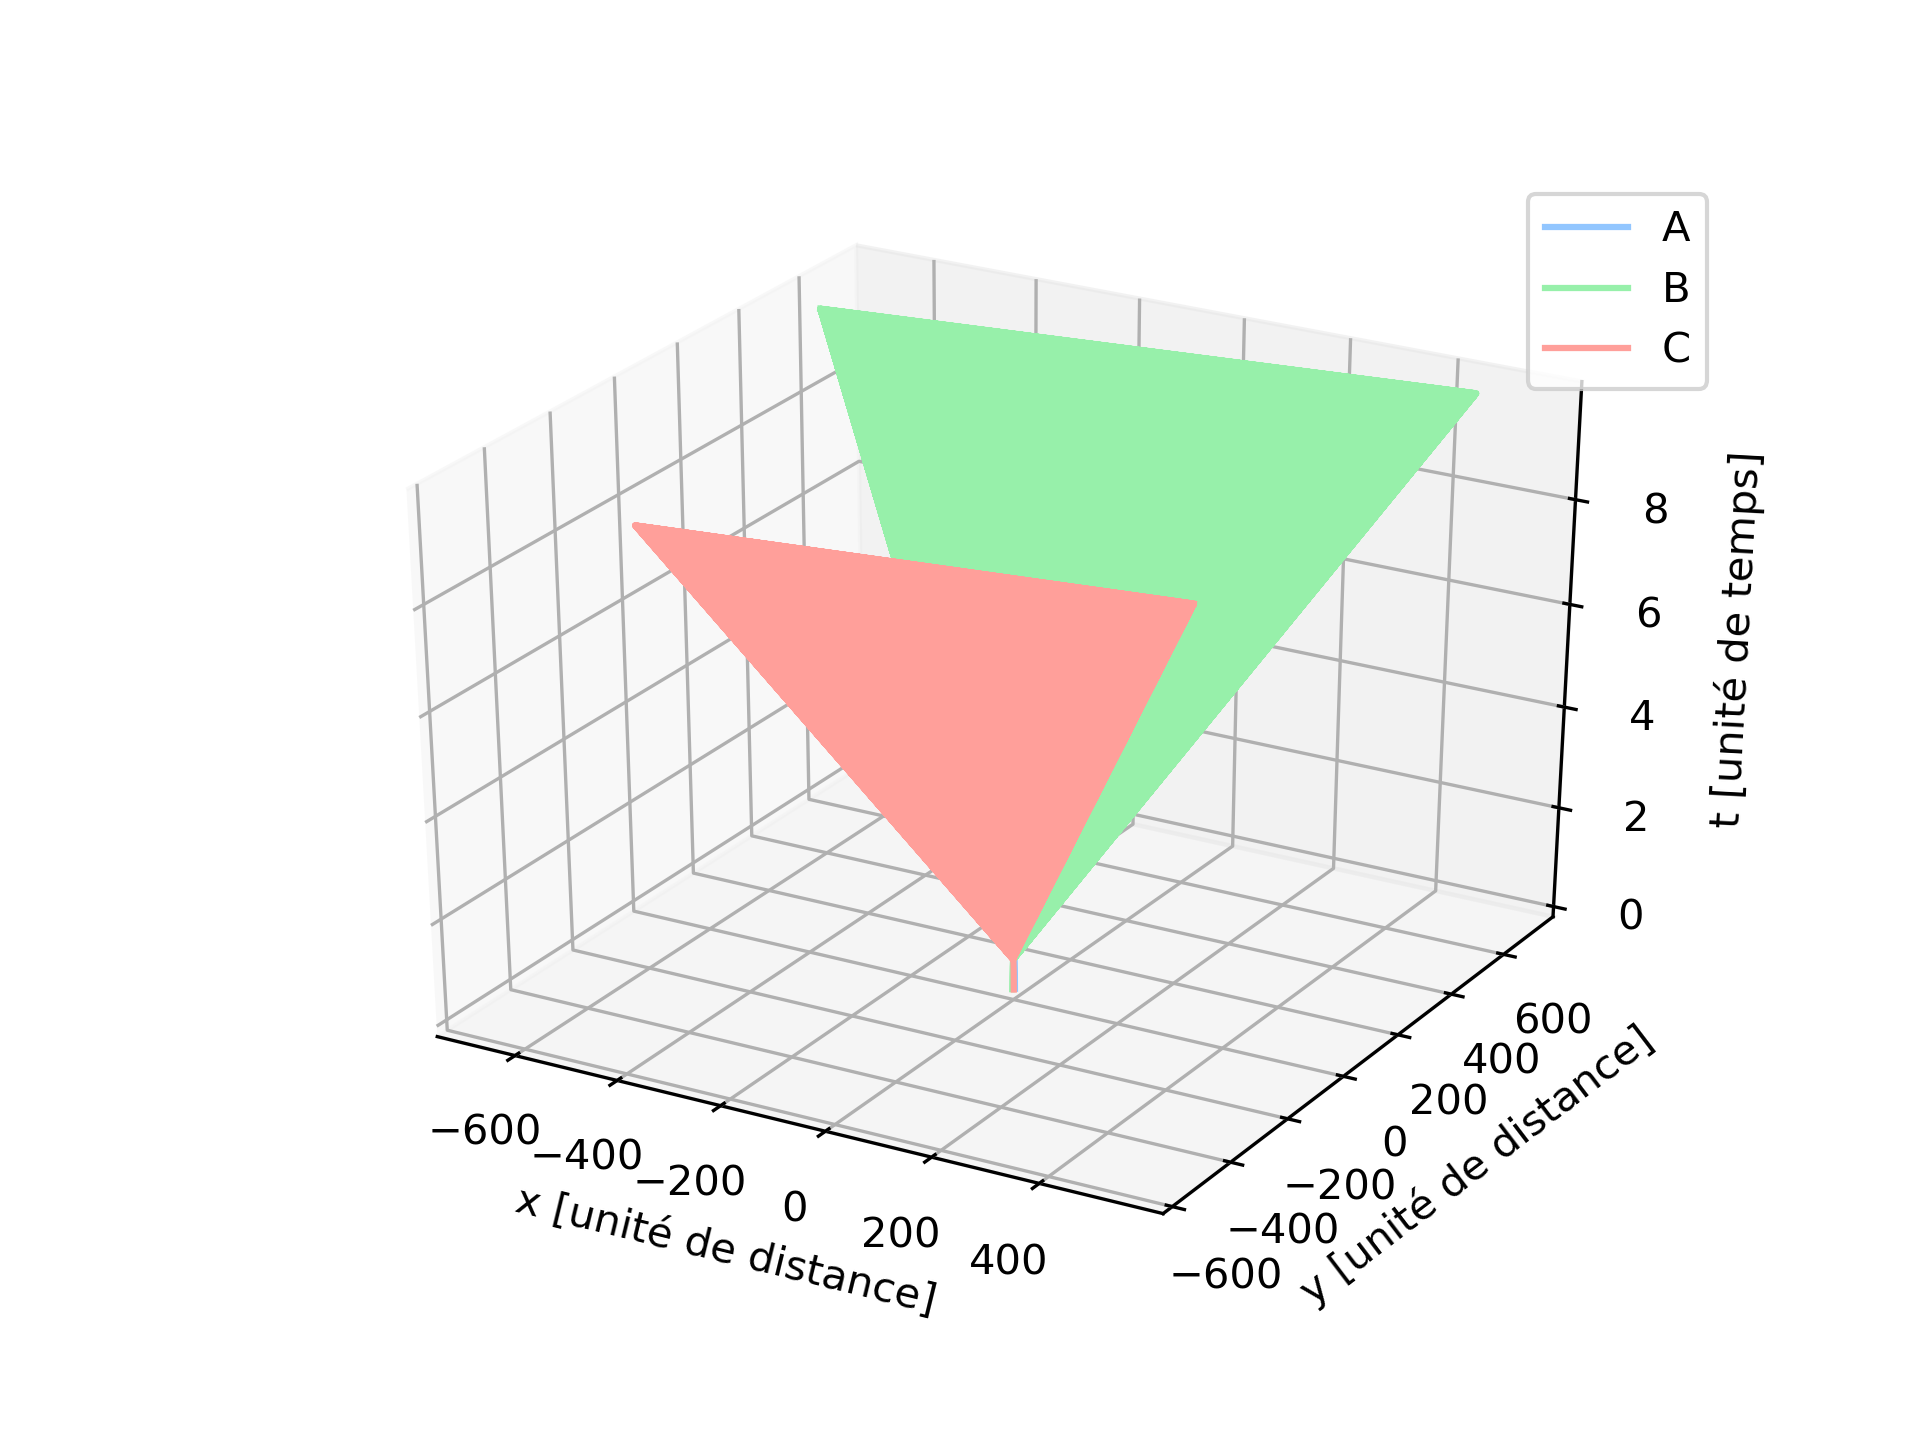
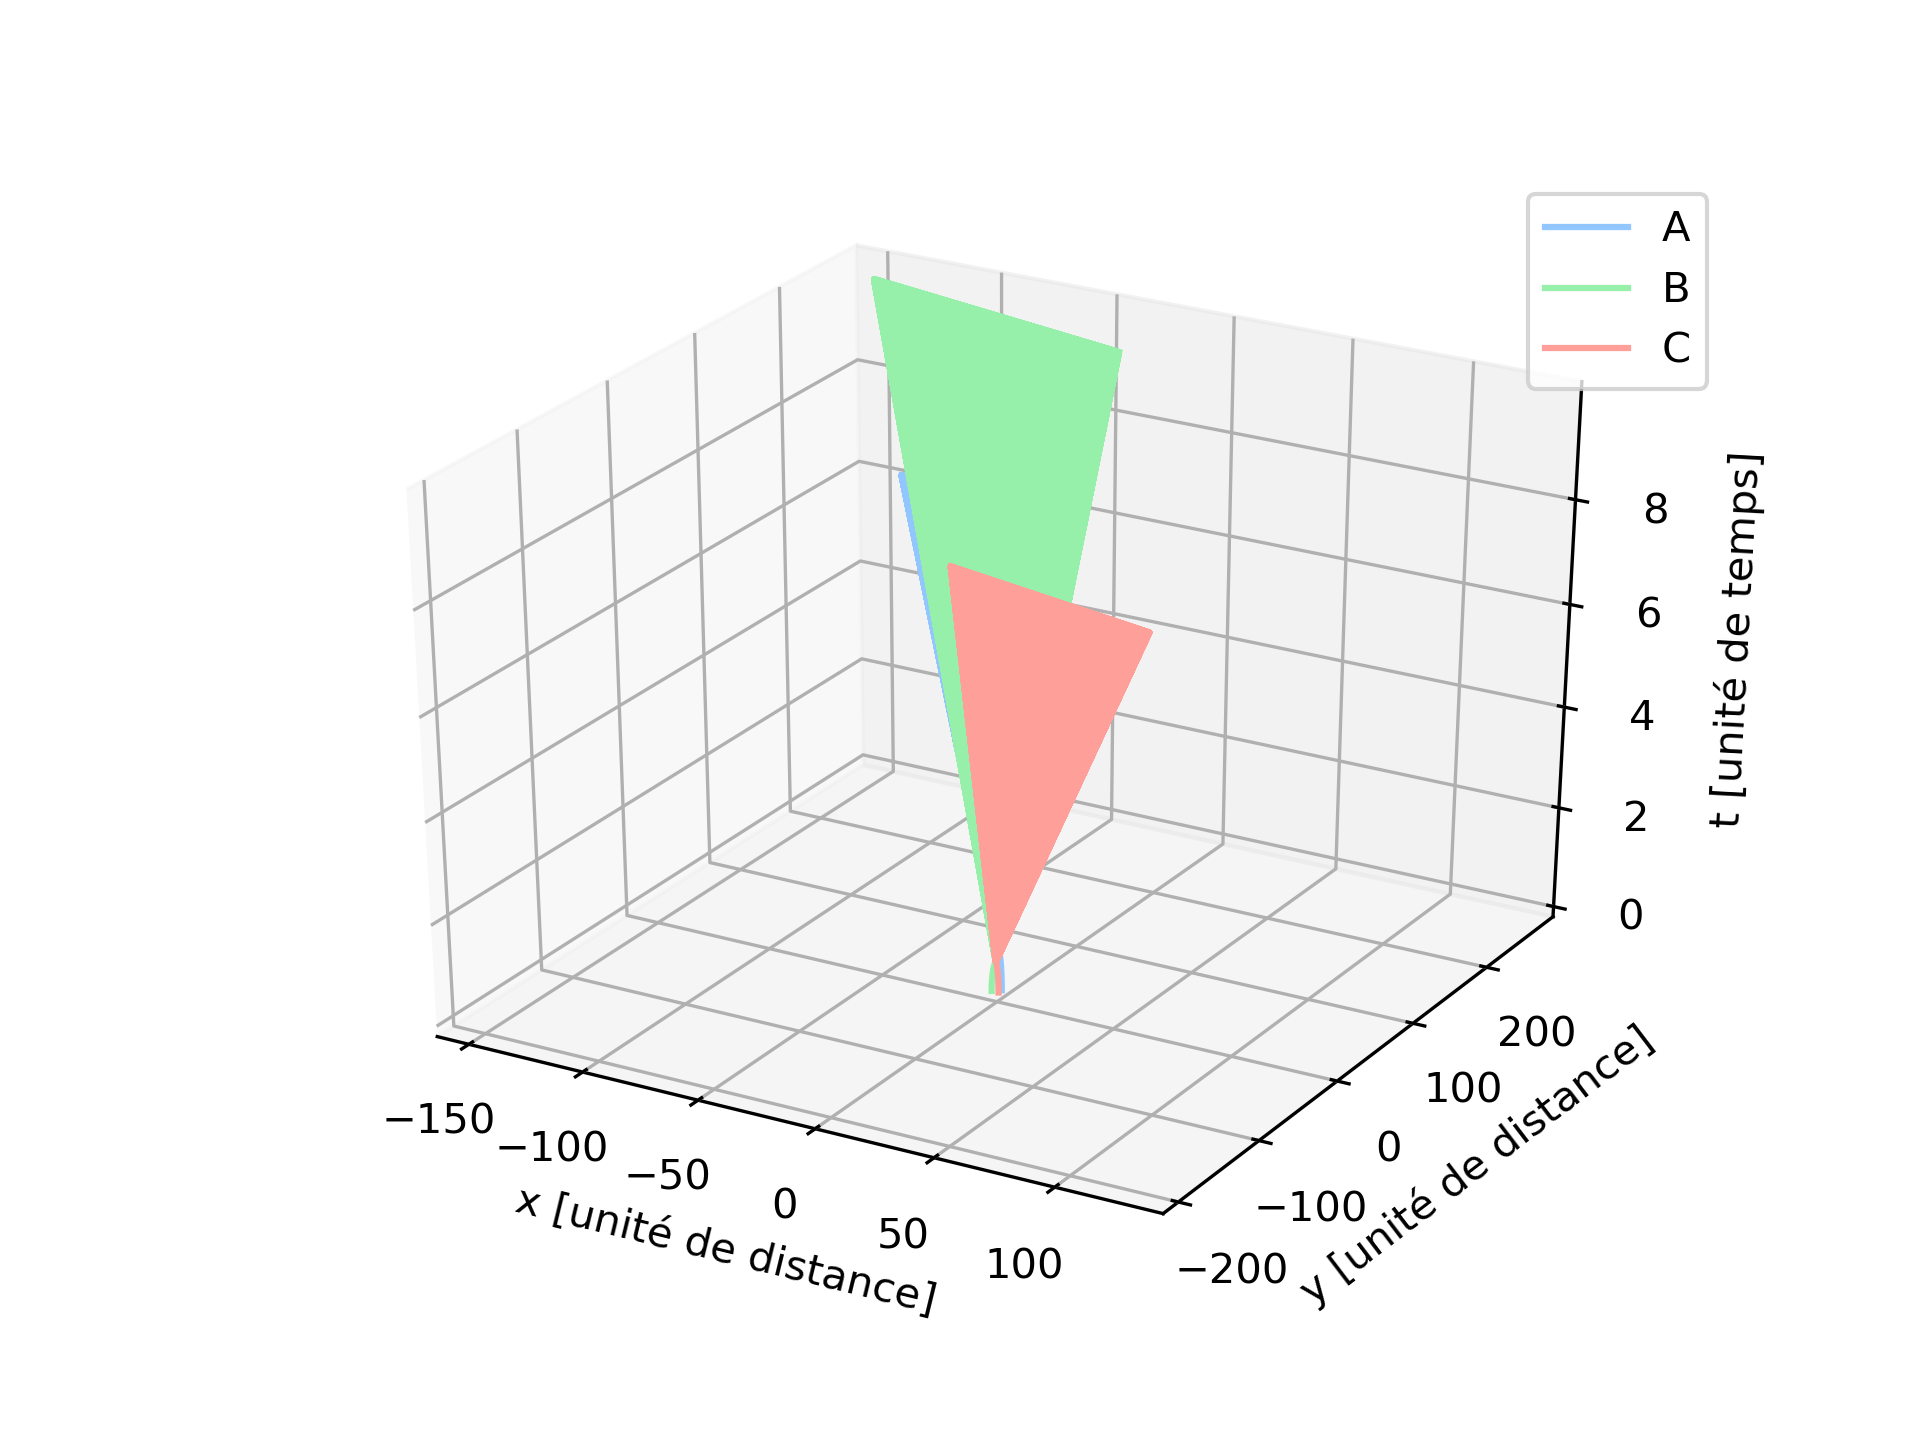
simulations

diff --git a/Mecanique_Celeste_main.py b/Mecanique_Celeste_main.py
@@ -1,4 +1,8 @@
 import numpy as np
+import matplotlib.pyplot as plt
+from mpl_toolkits.mplot3d import Axes3D
+from matplotlib.animation import FuncAnimation
+
 
 donnee_problemes: dict = {
     "a": {
@@ -37,7 +41,82 @@ donnee_problemes: dict = {
             [1.587433767, 1.47221479],
             [-3.174867535, -2.94442961]
         ]),
-    }
+    },
+    "c1": {
+        "labels": ["A", "B", "C"],
+        "t": [0, 15],
+        "m_i": np.array([1, 1, 1]),
+        "r_0": np.array([
+            [3.3030197, -0.82771837],
+            [-3.3030197, 0.82771837],
+            [0.0, 0.0]
+        ]),
+        "v_0": np.array([
+            [1.587433767, 1.47221479],
+            [1.587433767, 1.47221479],
+            [-3.174867535, -2.94442961]
+        ])+1.0,
+    },
+    "c2": {
+        "labels": ["A", "B", "C"],
+        "t": [0, 10],
+        "m_i": np.array([1, 1, 1]),
+        "r_0": np.array([
+            [3.3030197, -0.82771837],
+            [-3.3030197, 0.82771837],
+            [0.0, 0.0]
+        ]),
+        "v_0": np.array([
+            [1.587433767+1.0, 1.47221479+1.0],
+            [1.587433767, 1.47221479],
+            [-3.174867535, -2.94442961]
+        ]),
+    },
+    "c3": {
+        "labels": ["A", "B", "C"],
+        "t": [0, 15],
+        "m_i": np.array([1, 1, 1]),
+        "r_0": np.array([
+            [3.3030197, -0.82771837],
+            [-3.3030197, 0.82771837],
+            [0.0, 0.0]
+        ]),
+        "v_0": np.array([
+            [1.587433767, 1.47221479],
+            [1.587433767 + 1.0, 1.47221479 + 1.0],
+            [-3.174867535, -2.94442961]
+        ]),
+    },
+    "c4": {
+        "labels": ["A", "B", "C"],
+        "t": [0, 15],
+        "m_i": np.array([1, 1, 1]),
+        "r_0": np.array([
+            [3.3030197, -0.82771837],
+            [-3.3030197, 0.82771837],
+            [0.0, 0.0]
+        ]),
+        "v_0": np.array([
+            [1.587433767, 1.47221479],
+            [1.587433767, 1.47221479],
+            [-3.174867535 + 1.0, -2.94442961 + 1.0]
+        ]),
+    },
+    "c5": {
+        "labels": ["A", "B", "C"],
+        "t": [0, 100],
+        "m_i": np.array([1, 1, 1]),
+        "r_0": np.array([
+            [1, 3],
+            [-2, -1],
+            [1, -1]
+        ]),
+        "v_0": np.array([
+            [1.587433767, 1.47221479],
+            [1.587433767, 1.47221479],
+            [-3.174867535, -2.94442961]
+        ]),
+    },
 }
 
 
@@ -132,11 +211,12 @@ def simulation_affichage_3D(matrice_de_position: np.ndarray, vecteur_temps: np.n
     plt.legend()
     plt.grid()
     plt.savefig(f"{titre}.png", dpi=300)
-    plt.show()
+    # plt.show()
 
 
 def simulaiton_animation_2D(matrice_de_position: np.ndarray, vecteur_temps: np.ndarray,
-                            titre: str = "animation_resolution_3_corps", labels=None):
+                            titre: str = "animation_resolution_3_corps", labels=None,
+                            min_frames: int = 750):
     plt.style.use('seaborn-pastel')
 
     fig = plt.figure()
@@ -158,7 +238,7 @@ def simulaiton_animation_2D(matrice_de_position: np.ndarray, vecteur_temps: np.n
     plt.legend()
     plt.grid()
 
-    hm_frames: int = min(len(T), 750)
+    hm_frames: int = min(len(T), min_frames)
 
     def init():
         text_t.set_text(f"t: {0}")
@@ -179,18 +259,26 @@ def simulaiton_animation_2D(matrice_de_position: np.ndarray, vecteur_temps: np.n
                          frames=hm_frames, interval=20, blit=True)
 
     anim.save(f'{titre}.gif', writer='imagemagick')
-    plt.show()
+    # plt.show()
 
 
 if __name__ == '__main__':
-    import matplotlib.pyplot as plt
-    from mpl_toolkits.mplot3d import Axes3D
-    from matplotlib.animation import FuncAnimation
 
     for probleme, donnees in donnee_problemes.items():
         R, T = resolution_probleme_trois_corps(donnees["m_i"],
                                                positions_initiales=donnees["r_0"],
                                                vitesses_initiales=donnees["v_0"],
-                                               bornes=donnees["t"], resolution=10_000)
+                                               bornes=donnees["t"], resolution=100_000)
         simulation_affichage_3D(R, T, titre=f"simulation_affichage_3D_{probleme}", labels=donnees["labels"])
-        simulaiton_animation_2D(R, T, titre=f"simulation_animation_2D_{probleme}", labels=donnees["labels"])
+        simulaiton_animation_2D(R, T, titre=f"simulation_animation_2D_{probleme}", labels=donnees["labels"],
+                                min_frames=1_000)
+
+    # probleme = "c5"
+    # donnees = donnee_problemes[probleme]
+    # R, T = resolution_probleme_trois_corps(donnees["m_i"],
+    #                                        positions_initiales=donnees["r_0"],
+    #                                        vitesses_initiales=donnees["v_0"],
+    #                                        bornes=donnees["t"], resolution=100_000)
+    # simulation_affichage_3D(R, T, titre=f"simulation_affichage_3D_{probleme}", labels=donnees["labels"])
+    # simulaiton_animation_2D(R, T, titre=f"simulation_animation_2D_{probleme}", labels=donnees["labels"],
+    #                         min_frames=1_000)
